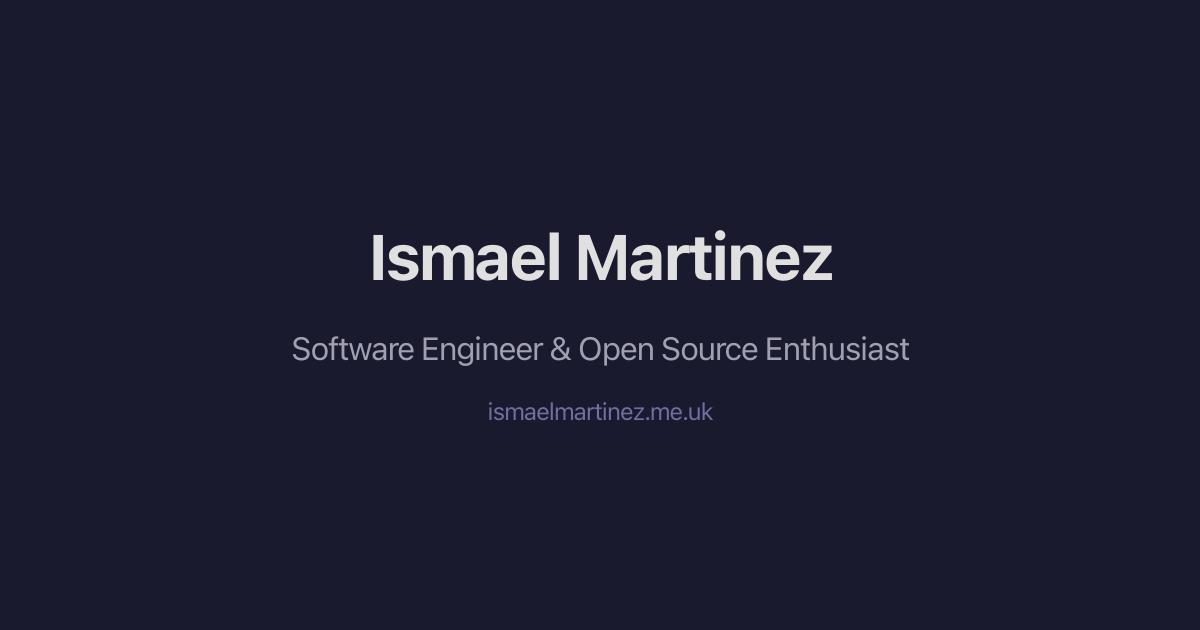
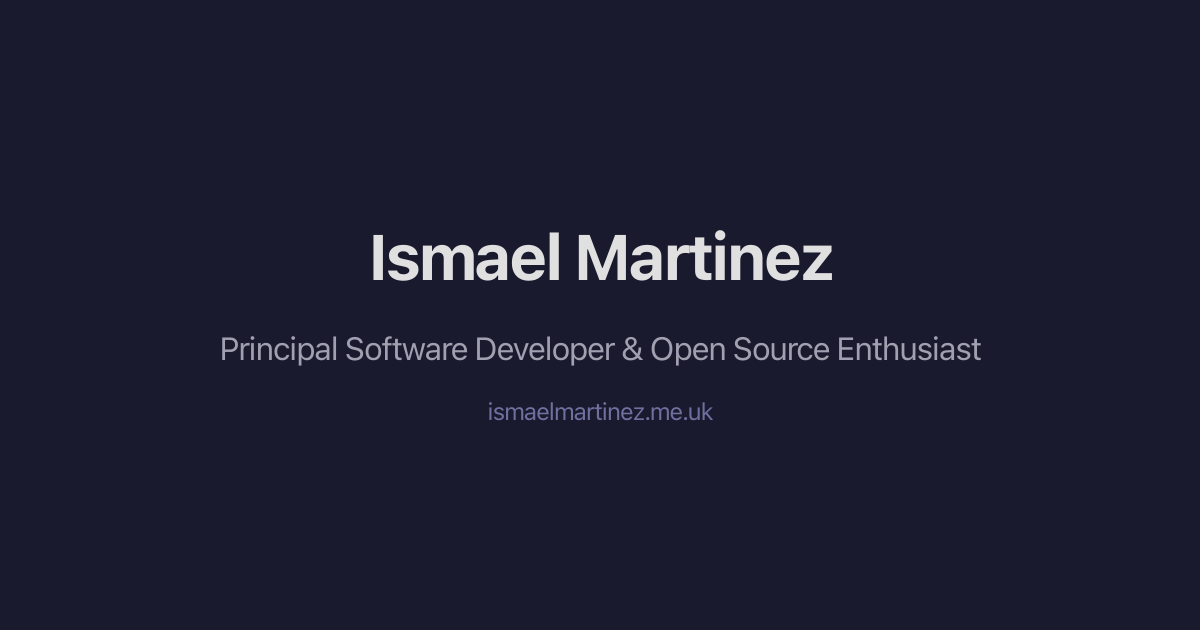
Add LICENSE, CODE_OF_CONDUCT, dependabot, og:image; fix job title to Principal Software Developer

Changed region(s): [[0.185, 0.5127, 0.8325, 0.573]]

diff --git a/src/i18n/translations.ts b/src/i18n/translations.ts
@@ -30,7 +30,7 @@ export const translations = {
     // Hero
     'hero.greeting': "Hi, I'm",
     'hero.name': 'Ismael Martinez',
-    'hero.tagline': 'Software Engineer & Open Source Enthusiast',
+    'hero.tagline': 'Principal Software Developer & Open Source Enthusiast',
     'hero.description': 'I build things, write about technology, and contribute to open source. Welcome to my corner of the internet.',
 
     // Sections
@@ -141,11 +141,11 @@ export const translations = {
     // About
     'nav.about': 'About',
     'about.title': 'About',
-    'about.description': 'Software Engineer, open source enthusiast, and lifelong learner',
+    'about.description': 'Principal Software Developer, open source enthusiast, and lifelong learner',
     'about.bioTitle': 'Hello!',
-    'about.bio': "I'm Ismael Martinez, a software engineer based in the UK with a passion for building reliable, well-crafted software. I enjoy working across the full stack, contributing to open source, and writing about what I learn along the way.",
+    'about.bio': "I'm Ismael Martinez, a principal software developer based in the UK with a passion for building reliable, well-crafted software. I enjoy working across the full stack, contributing to open source, and writing about what I learn along the way.",
     'about.careerTitle': 'Career Highlights',
-    'about.career1': 'Over 15 years of experience in software engineering across multiple industries',
+    'about.career1': 'Over 15 years of experience in software development across multiple industries',
     'about.career2': 'Specialising in cloud-native architectures, DevOps practices, and platform engineering',
     'about.career3': 'Active open source contributor and community participant',
     'about.career4': 'Regular writer on Medium and Dev.to covering software development topics',
@@ -168,7 +168,7 @@ export const translations = {
     // Hero
     'hero.greeting': 'Hola, soy',
     'hero.name': 'Ismael Martinez',
-    'hero.tagline': 'Ingeniero de Software y Entusiasta del Open Source',
+    'hero.tagline': 'Desarrollador de Software Principal y Entusiasta del Open Source',
     'hero.description': 'Construyo cosas, escribo sobre tecnología y contribuyo al código abierto. Bienvenido a mi rincón de internet.',
 
     // Sections
@@ -279,11 +279,11 @@ export const translations = {
     // About
     'nav.about': 'Sobre mí',
     'about.title': 'Sobre mí',
-    'about.description': 'Ingeniero de Software, entusiasta del código abierto y aprendiz permanente',
+    'about.description': 'Desarrollador de Software Principal, entusiasta del código abierto y aprendiz permanente',
     'about.bioTitle': '¡Hola!',
-    'about.bio': 'Soy Ismael Martinez, ingeniero de software en Reino Unido con pasión por construir software fiable y bien diseñado. Me gusta trabajar en todo el stack, contribuir al código abierto y escribir sobre lo que aprendo.',
+    'about.bio': 'Soy Ismael Martinez, desarrollador de software principal en Reino Unido con pasión por construir software fiable y bien diseñado. Me gusta trabajar en todo el stack, contribuir al código abierto y escribir sobre lo que aprendo.',
     'about.careerTitle': 'Trayectoria',
-    'about.career1': 'Más de 15 años de experiencia en ingeniería de software en múltiples industrias',
+    'about.career1': 'Más de 15 años de experiencia en desarrollo de software en múltiples industrias',
     'about.career2': 'Especializado en arquitecturas cloud-native, prácticas DevOps e ingeniería de plataformas',
     'about.career3': 'Contribuidor activo de código abierto y participante de la comunidad',
     'about.career4': 'Escritor habitual en Medium y Dev.to sobre desarrollo de software',
@@ -306,7 +306,7 @@ export const translations = {
     // Hero
     'hero.greeting': 'Hola, sóc',
     'hero.name': 'Ismael Martinez',
-    'hero.tagline': 'Enginyer de Software i Entusiasta de l\'Open Source',
+    'hero.tagline': 'Desenvolupador de Software Principal i Entusiasta de l\'Open Source',
     'hero.description': 'Construeixo coses, escric sobre tecnologia i contribueixo al codi obert. Benvingut al meu racó d\'internet.',
 
     // Sections
@@ -417,11 +417,11 @@ export const translations = {
     // About
     'nav.about': 'Sobre mi',
     'about.title': 'Sobre mi',
-    'about.description': 'Enginyer de Software, entusiasta del codi obert i aprenent permanent',
+    'about.description': 'Desenvolupador de Software Principal, entusiasta del codi obert i aprenent permanent',
     'about.bioTitle': 'Hola!',
-    'about.bio': "Sóc Ismael Martinez, enginyer de software al Regne Unit amb passió per construir software fiable i ben dissenyat. M'agrada treballar en tot l'stack, contribuir al codi obert i escriure sobre el que aprenc.",
+    'about.bio': "Sóc Ismael Martinez, desenvolupador de software principal al Regne Unit amb passió per construir software fiable i ben dissenyat. M'agrada treballar en tot l'stack, contribuir al codi obert i escriure sobre el que aprenc.",
     'about.careerTitle': 'Trajectòria',
-    'about.career1': "Més de 15 anys d'experiència en enginyeria de software en múltiples indústries",
+    'about.career1': "Més de 15 anys d'experiència en desenvolupament de software en múltiples indústries",
     'about.career2': 'Especialitzat en arquitectures cloud-native, pràctiques DevOps i enginyeria de plataformes',
     'about.career3': 'Contribuïdor actiu de codi obert i participant de la comunitat',
     'about.career4': 'Escriptor habitual a Medium i Dev.to sobre desenvolupament de software',

diff --git a/src/pages/[lang]/rss.xml.ts b/src/pages/[lang]/rss.xml.ts
@@ -19,7 +19,7 @@ export async function GET(context: APIContext) {
 
   return rss({
     title: 'Ismael Martinez',
-    description: 'Software Engineer & Open Source Enthusiast — articles on software development, architecture, and technology.',
+    description: 'Principal Software Developer & Open Source Enthusiast — articles on software development, architecture, and technology.',
     site: context.site!,
     items: sortedArticles.map((article) => ({
       title: article.data.title,
